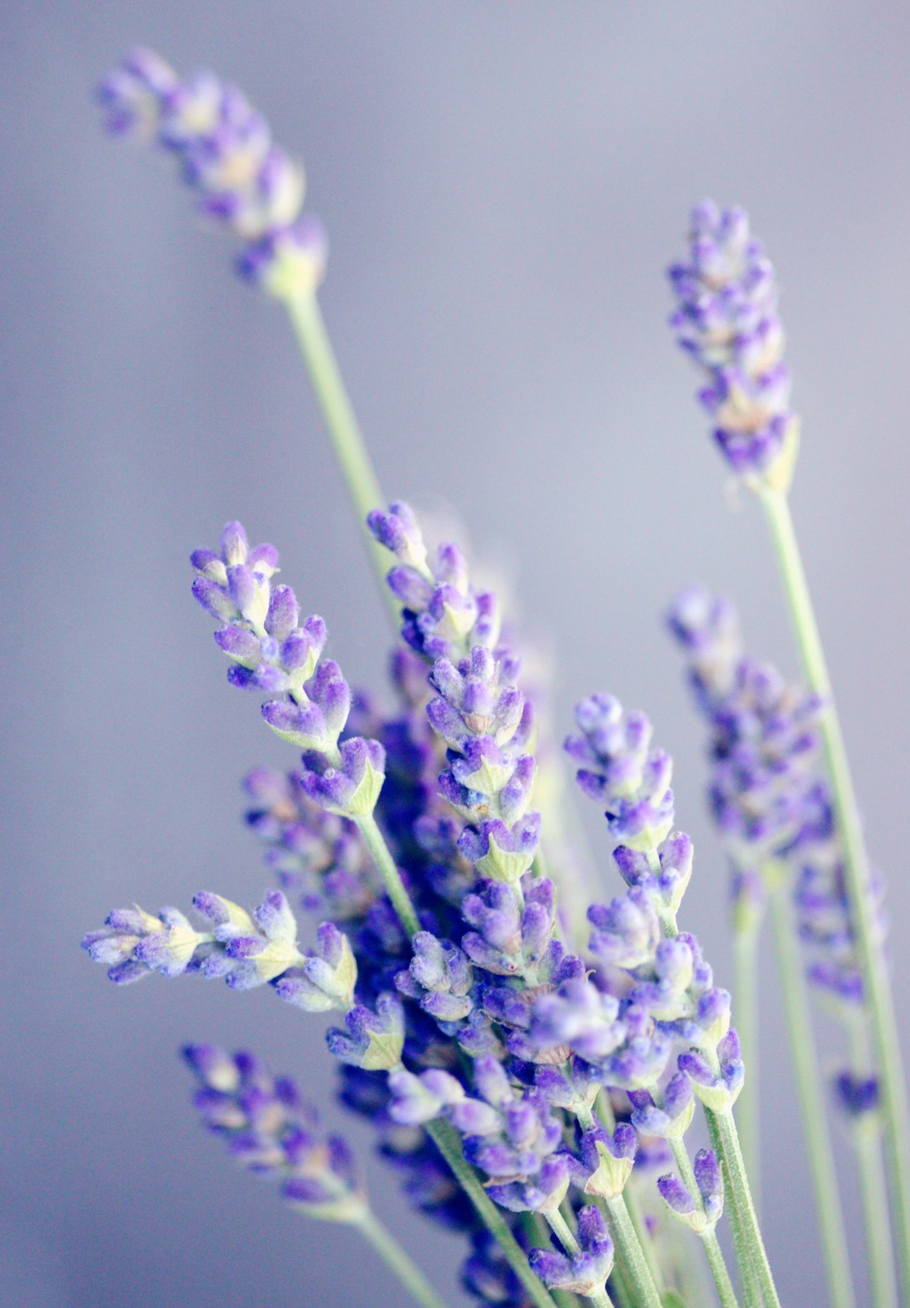
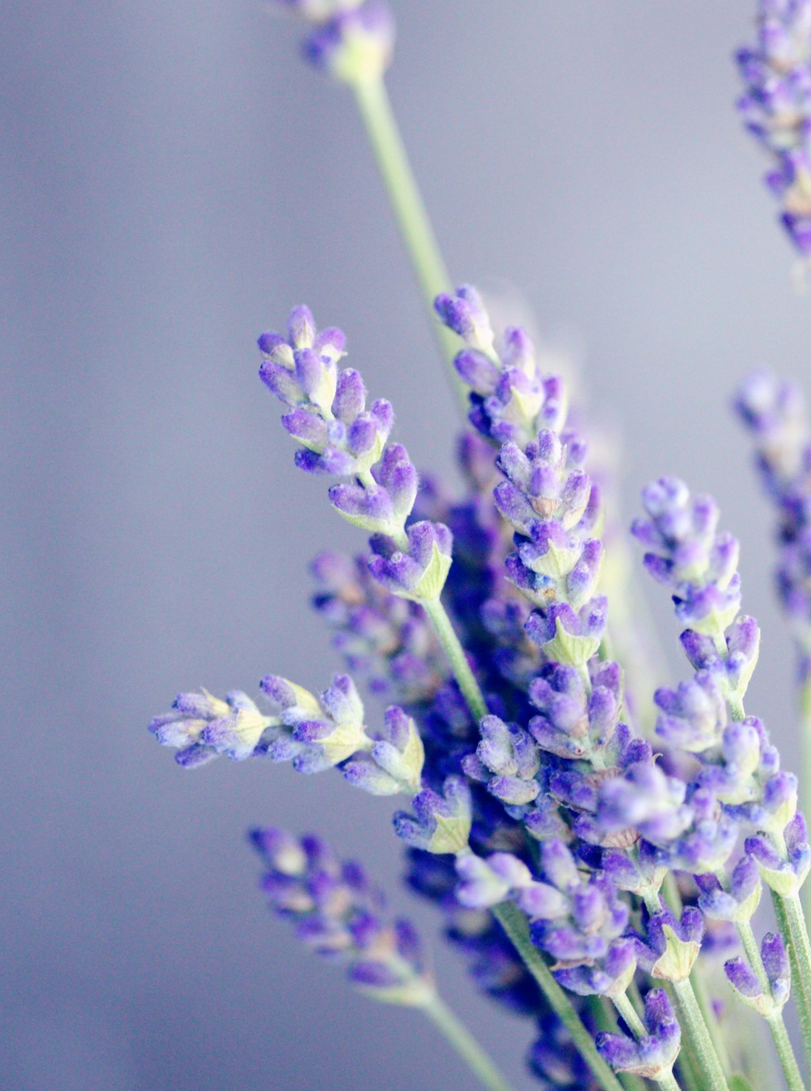
feat: implement vertical slider logic

diff --git a/students/AnnaVernadskaya/vertical-slider/script.js b/students/AnnaVernadskaya/vertical-slider/script.js
@@ -1,0 +1,43 @@
+//основной функционал
+const upButton = document.querySelector('.up-button');
+const downButton = document.querySelector('.down-button');
+const sidebar = document.querySelector('.sidebar');
+const container = document.querySelector('.container');
+const mainSlide = document.querySelector('.main-slide');
+
+const slidesCount = mainSlide.querySelectorAll('div').length;
+
+let activeSlideIndex = 0;
+
+sidebar.style.top = `-${(slidesCount - 1) * 100}vh`;
+
+upButton.addEventListener('click', () => {
+  changeSlide('up');
+});
+
+downButton.addEventListener('click', () => {
+  changeSlide('down');
+});
+
+function changeSlide(direction) {
+  if (direction === 'up') {
+    activeSlideIndex++;
+
+    if (activeSlideIndex === slidesCount) {
+      activeSlideIndex = 0;
+    }
+  }
+
+  if (direction === 'down') {
+    activeSlideIndex--;
+
+    if (activeSlideIndex < 0) {
+      activeSlideIndex = slidesCount - 1;
+    }
+  }
+
+  const height = container.clientHeight;
+
+  mainSlide.style.transform = `translateY(-${activeSlideIndex * height}px)`;
+  sidebar.style.transform = `translateY(${activeSlideIndex * height}px)`;
+}

diff --git a/students/AnnaVernadskaya/vertical-slider/style.css b/students/AnnaVernadskaya/vertical-slider/style.css
@@ -66,7 +66,7 @@ body {
 }
 
 .sidebar__slide--blue {
-  background: linear-gradient(221.87deg, #00b4ff 1%, #001f7a 128%);
+  background: linear-gradient(221.87deg, #0b2d7a 1%, #020b3d 128%);
 }
 
 .sidebar__slide--purple {
@@ -118,7 +118,7 @@ body {
   background-image: url('./images/slide-red.jpg');
 }
 
-button {
+.controls button {
   position: absolute;
   left: 35%;
   top: 50%;
@@ -132,11 +132,11 @@ button {
   cursor: pointer;
 }
 
-button:hover {
+.controls button:hover {
   color: #222222;
 }
 
-button:focus {
+.controls button:focus {
   outline: none;
 }
 

diff --git a/students/AnnaVernadskaya/vertical-slider/index.html b/students/AnnaVernadskaya/vertical-slider/index.html
@@ -70,5 +70,6 @@
         </button>
       </div>
     </div>
+    <script src="./script.js"></script>
   </body>
 </html>
